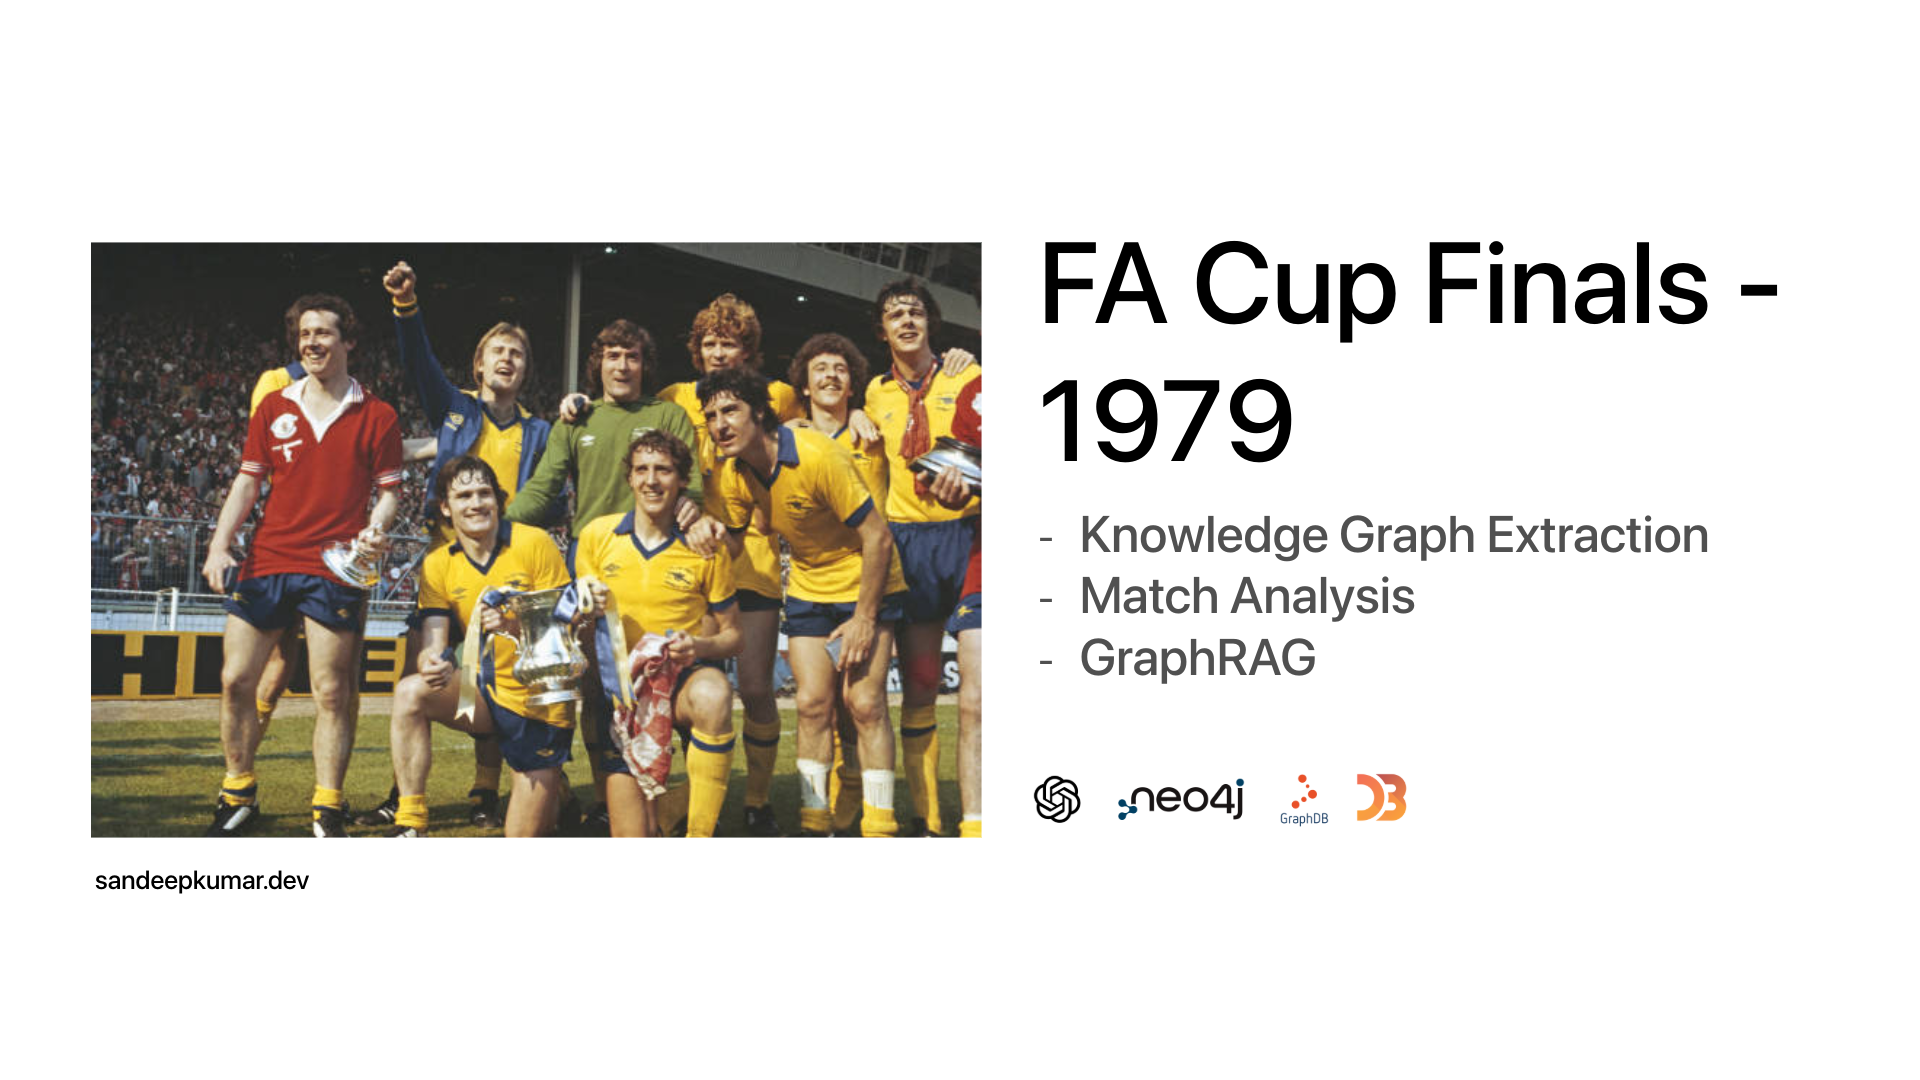
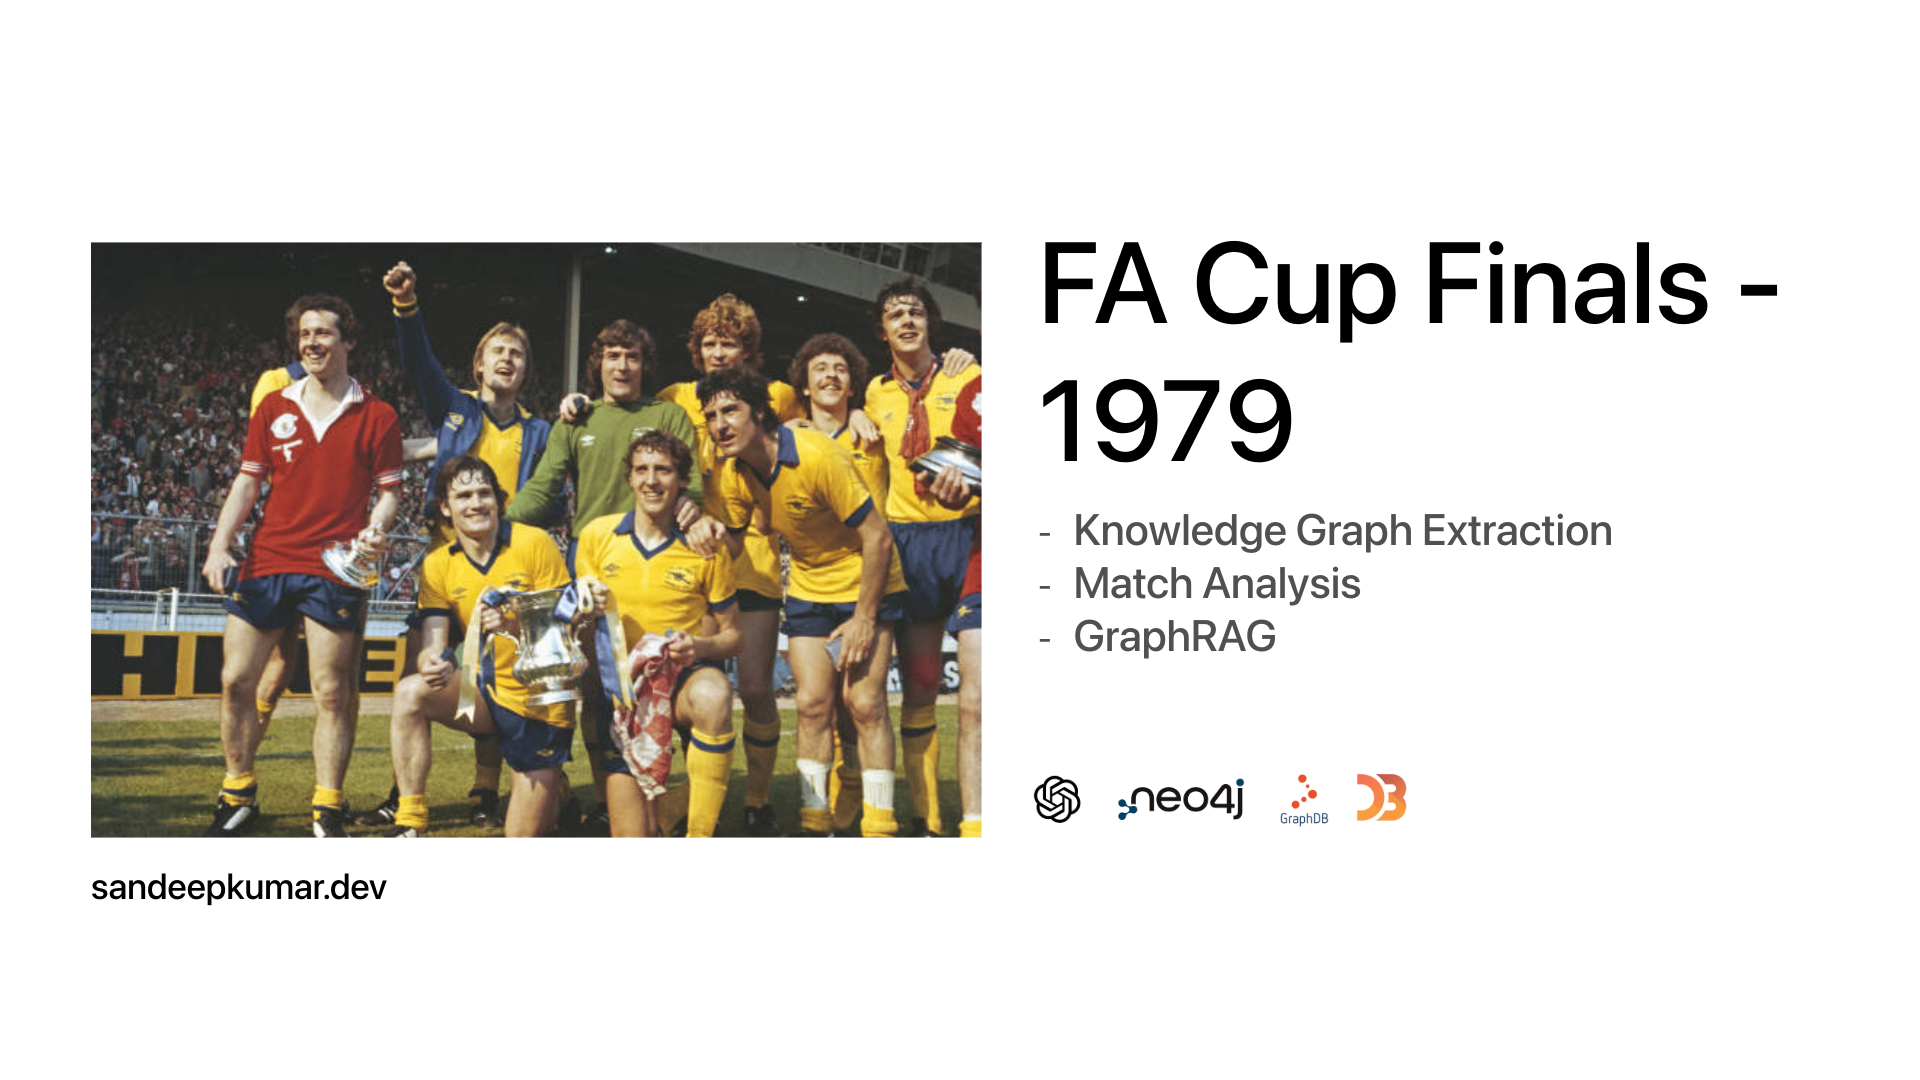
folder spec readme

Changed region(s): [[0.5625, 0.4583, 0.9062, 0.6417], [0.0312, 0.7944, 0.1875, 0.8556]]

diff --git a/demo-web-app/readme.md b/demo-web-app/readme.md
@@ -1,0 +1,1 @@
+# Demo Web APp
